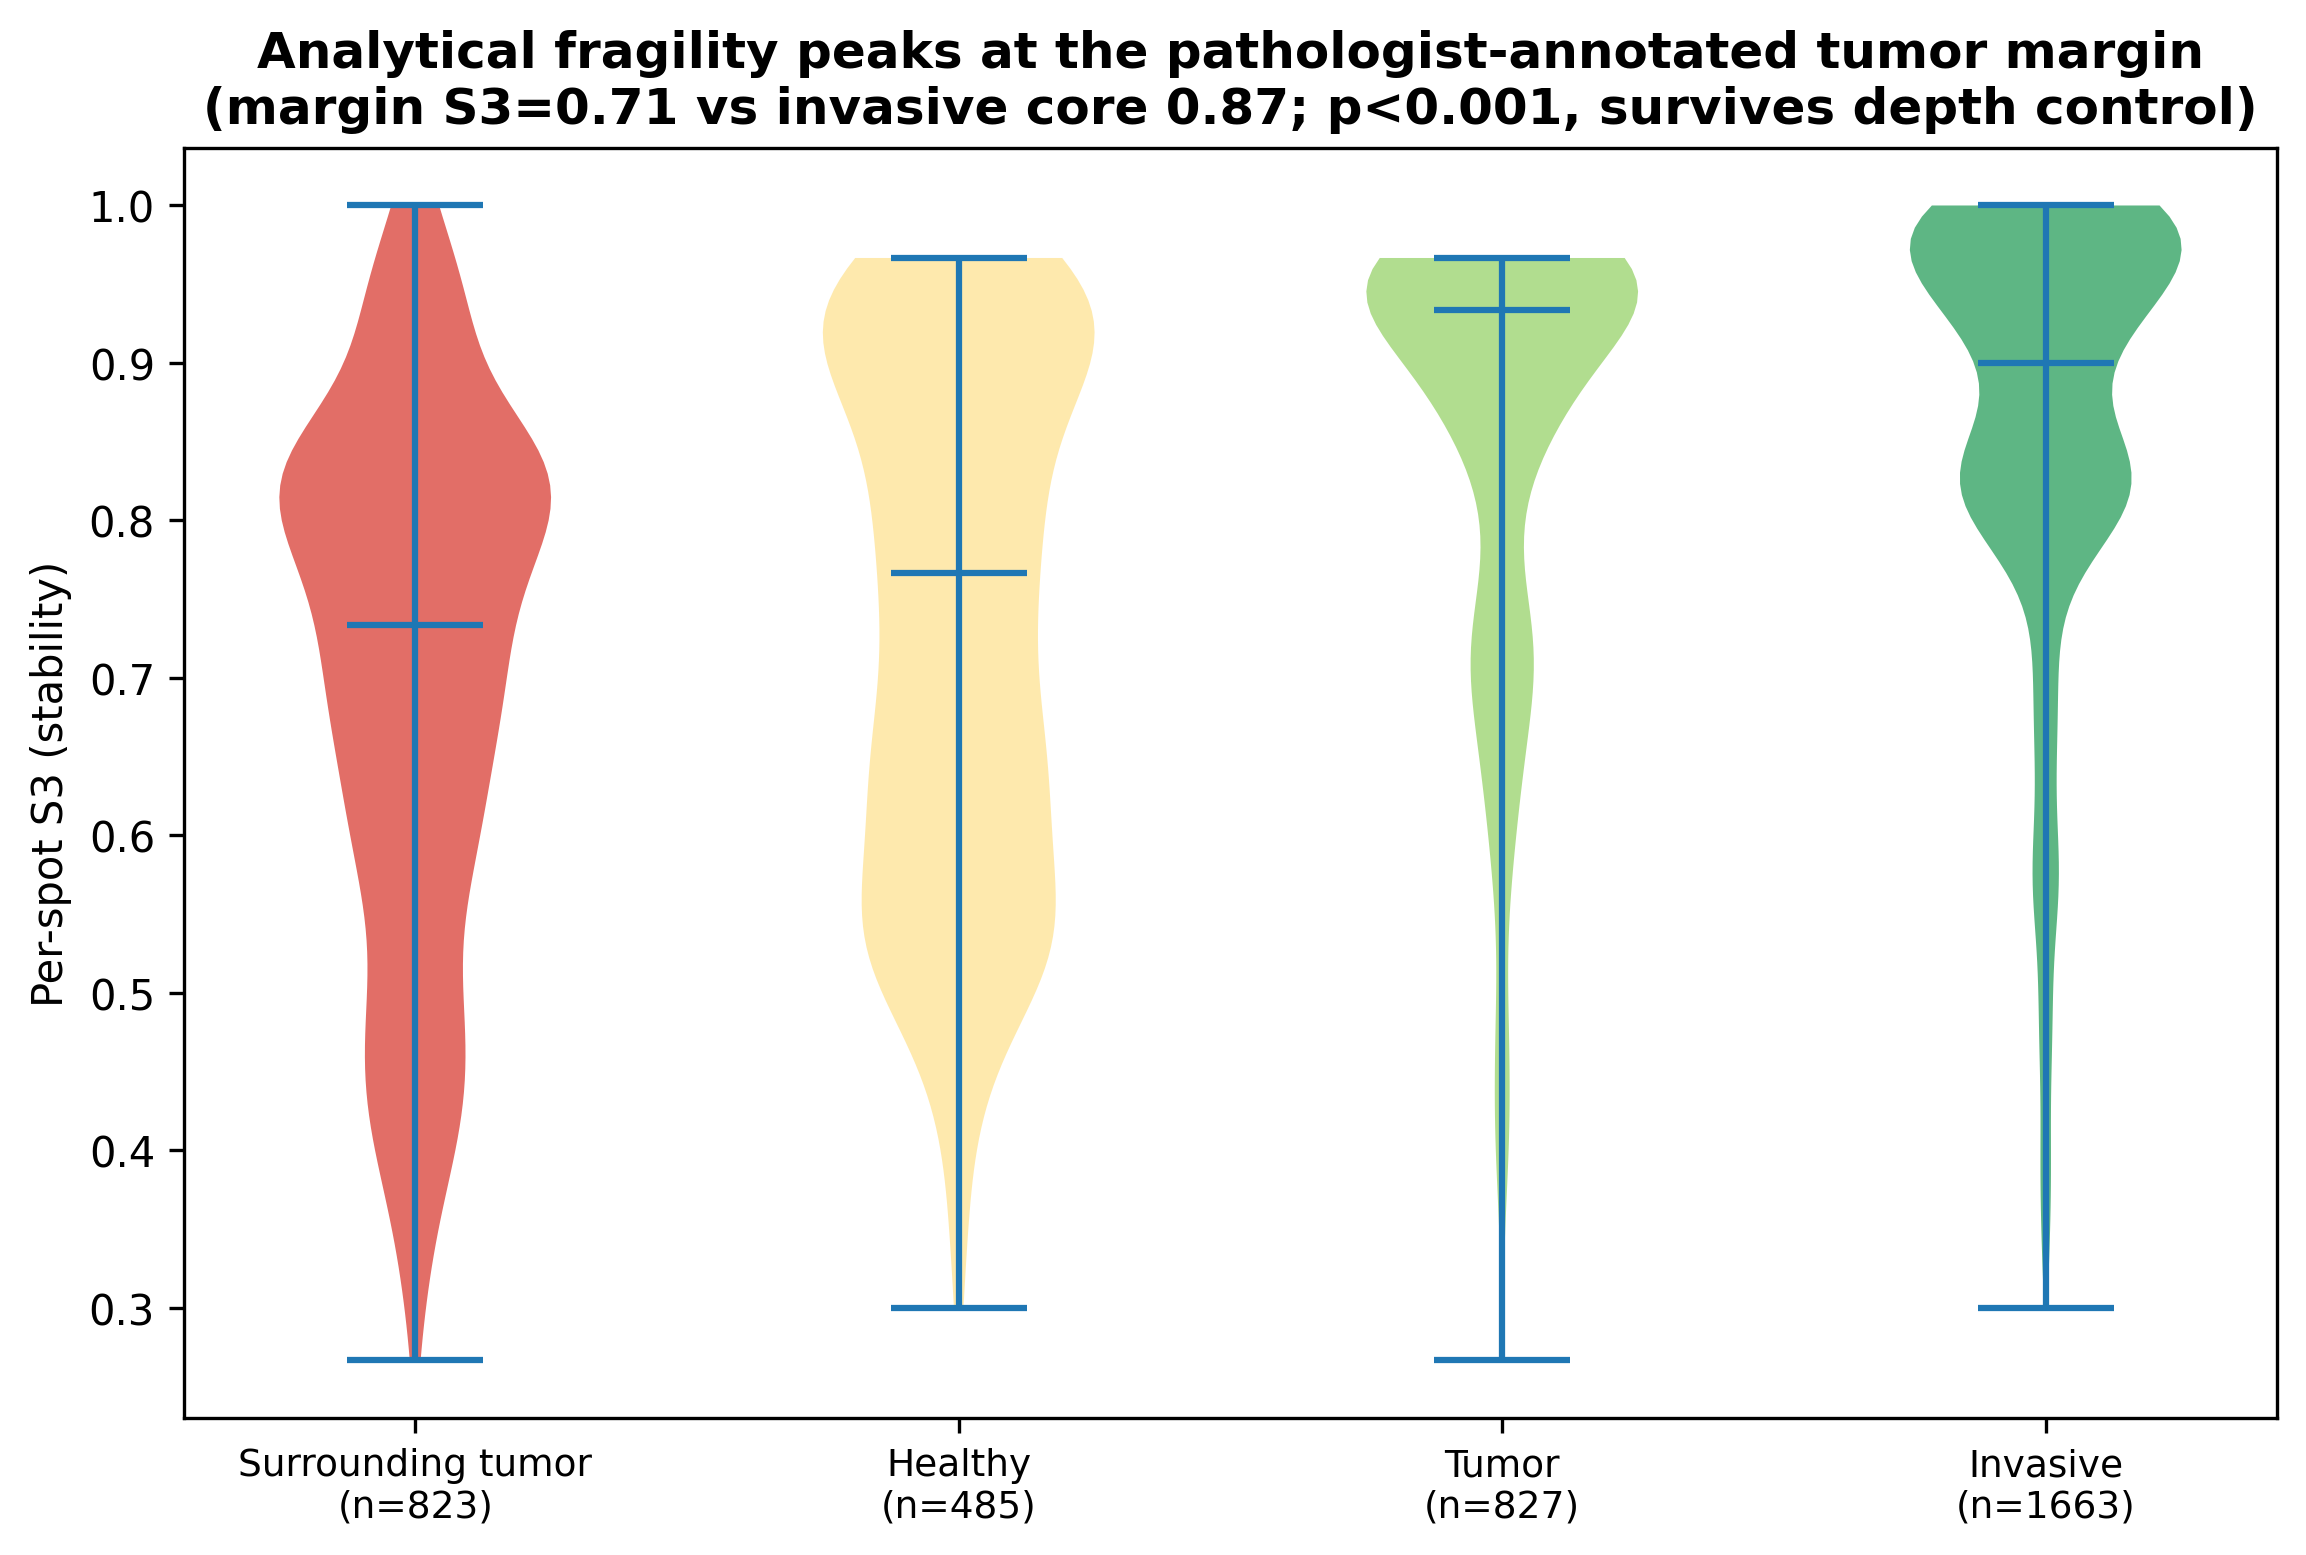
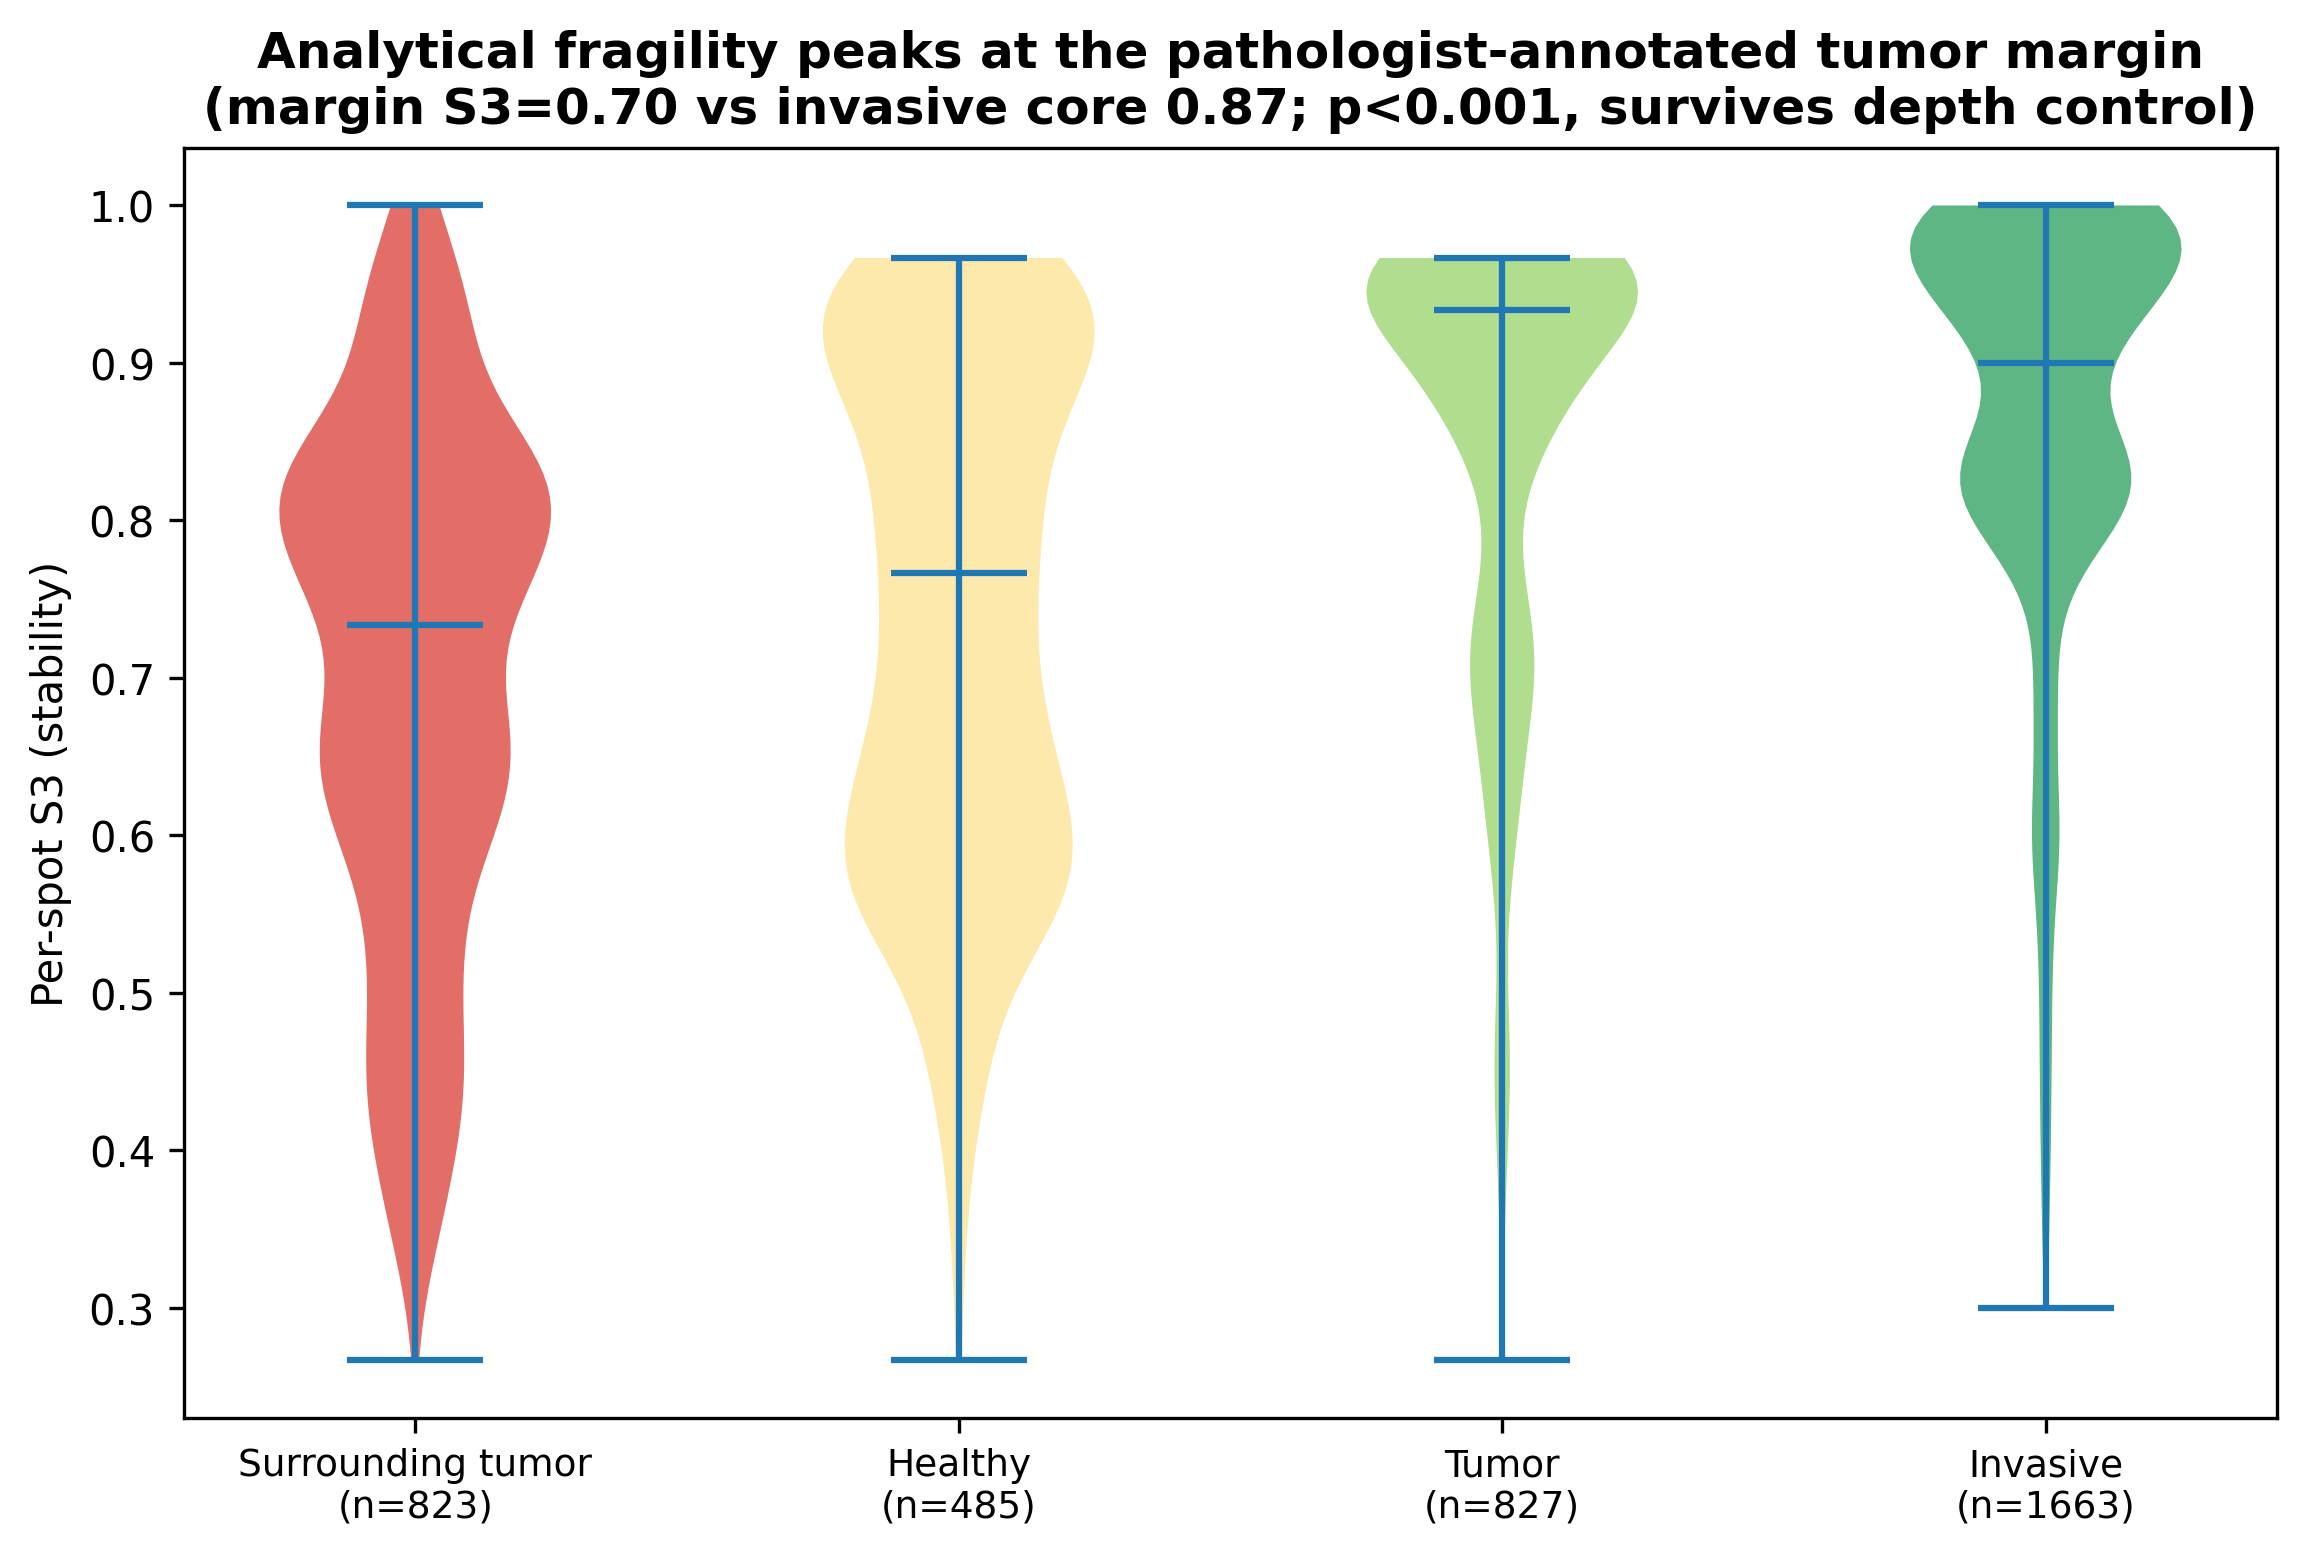
Add bootstrap CI to pathology H1; fix stale pathology_stakes.json
stakes_test_from_arrays already had real nulls (plain + depth-stratified
permutation) for the pathologist-validated H1 result, better-tested
than the consensus/fragility-prediction claims were before cycles 6/11.
What it lacked was a bootstrap CI on the gap magnitude - CLAUDE.md asks
for both a null and a CI on every positive claim, not just a p-value.
Added a paired bootstrap (resample spots with replacement, recompute
group means) plus a test.

Also found, incidentally: pathology_stakes.json was stale relative to
the current breast_cancer sweep. The sweep got regenerated in an
earlier commit (4a8dd0b) but scripts/analyze_pathology.py was never
re-run after, so committed pathology numbers were computed against an
older sweep than what's on main. Re-running it for the CI fixed this
too - ran against the exact currently-committed per-spot data, so this
is not an independent rerun with drift risk like earlier cycles' checks.

Real numbers: margin S3=0.702 vs rest 0.843, gap=0.141, 95% CI
[0.128, 0.154] (excludes zero), p=0.001 both plain and depth-controlled.
PathMarginS macro shifts 0.71->0.70 (rounding-boundary crossing from the
staleness fix) - regenerated paper/numbers.tex via report_numbers.py;
no hardcoded prose numbers needed touching.

40/40 offline tests pass.

diff --git a/src/statistics.py b/src/statistics.py
@@ -379,6 +379,7 @@ def stakes_test_from_arrays(
     depth: Optional[np.ndarray] = None,
     n_bins: int = 10,
     n_perm: int = 1000,
+    n_boot: int = 1000,
     seed: int = 42,
 ) -> Dict[str, Any]:
     """
@@ -389,6 +390,11 @@ def stakes_test_from_arrays(
     If ``depth`` is given, also runs a depth-stratified block-permutation null
     (shuffle the boundary label only within depth deciles) so the result is not a
     sequencing-depth artifact.
+
+    Also reports a 95% bootstrap CI on the gap (resample spots with replacement,
+    recompute boundary/other means). The permutation null answers "is this gap
+    bigger than chance"; the CI answers "how big is it, with what uncertainty" -
+    CLAUDE.md asks every positive claim ship with both, not just a p-value.
     """
     s3 = np.asarray(s3, float)
     boundary = np.asarray(boundary, bool)
@@ -407,6 +413,19 @@ def stakes_test_from_arrays(
         "gap": obs_gap, "p_value": float((ge + 1) / (n_perm + 1)),
         "n_boundary": n_b, "n_other": int((~boundary).sum()),
     }
+
+    boot_gaps = []
+    n = len(s3)
+    for _ in range(n_boot):
+        idx = rng.randint(0, n, n)
+        bb = boundary[idx]
+        if bb.all() or (~bb).all():
+            continue  # degenerate resample; skip
+        boot_gaps.append(s3[idx][~bb].mean() - s3[idx][bb].mean())
+    boot_gaps = np.array(boot_gaps)
+    result["gap_ci95_low"] = float(np.percentile(boot_gaps, 2.5))
+    result["gap_ci95_high"] = float(np.percentile(boot_gaps, 97.5))
+    result["n_boot_used"] = int(len(boot_gaps))
 
     if depth is not None:
         depth = np.asarray(depth, float)

diff --git a/tests/test_statistics.py b/tests/test_statistics.py
@@ -147,9 +147,11 @@ def test_stakes_test_from_arrays_detects_and_depth_controls():
     boundary[:60] = True
     s3 = np.where(boundary, 0.5, 0.9) + rng.normal(0, 0.02, n)
     depth = rng.uniform(1000, 5000, n)  # depth unrelated to the boundary
-    res = stakes_test_from_arrays(s3, boundary, depth=depth, n_perm=200)
+    res = stakes_test_from_arrays(s3, boundary, depth=depth, n_perm=200, n_boot=200)
     assert res["gap"] > 0 and res["p_value"] < 0.05
     assert res["p_value_depth_controlled"] < 0.05
+    assert res["gap_ci95_low"] > 0  # CI excludes zero: a real, non-noise gap
+    assert res["gap_ci95_low"] <= res["gap"] <= res["gap_ci95_high"]
 
 
 def test_variance_decomposition_runs():

diff --git a/paper/numbers.tex b/paper/numbers.tex
@@ -46,7 +46,7 @@
 \newcommand{\TumorVarTopAxis}{resolution}
 \newcommand{\TumorVarTopFrac}{72\%}
 \newcommand{\TumorDepthP}{<0.001}
-\newcommand{\PathMarginS}{0.71}
+\newcommand{\PathMarginS}{0.70}
 \newcommand{\PathInvasiveS}{0.87}
 \newcommand{\PathHealthyS}{0.74}
 \newcommand{\PathP}{<0.001}

diff --git a/NOTES.md b/NOTES.md
@@ -347,3 +347,29 @@ on hypothesis status.
 - No empirical results this cycle. Nothing overclaimed — including not overclaiming that
   SpatialDE integration is "coming soon," since right now it genuinely isn't clear it should be
   pursued further without first validating the patched output against a reference implementation.
+
+## Cycle 15 — 2026-07-09 (this instance: Adharv's machine)
+
+- **@Sparsh:** still quiet on your side (4 cycles now) — hope all's well, will keep checking.
+- **Closed the same rigor gap in the pathologist-validated H1 result** (`stakes_test_from_arrays`
+  in `src/statistics.py`, used by `scripts/analyze_pathology.py`) that cycles 6 and 11 closed for
+  consensus and fragility-prediction. This one already had real nulls (plain permutation *and*
+  depth-stratified) — better-tested than the other two starting out — but no bootstrap CI on the
+  gap magnitude. Added one (paired bootstrap resampling spots, percentile CI), plus a test.
+- **Also found, incidentally: `pathology_stakes.json` was stale.** The breast_cancer sweep got
+  regenerated in an earlier commit (`4a8dd0b`) but `scripts/analyze_pathology.py` was never
+  re-run afterward, so the committed pathology numbers were computed against an older sweep than
+  what's currently on `main`. Re-running it (to get the new CI) incidentally fixed this too.
+- **Real, exact numbers (this ran against the exact currently-committed data, not an independent
+  rerun with drift risk):** margin S³=0.702 vs rest 0.843, gap=0.141, 95% CI [0.128, 0.154] —
+  tight, clearly excludes zero, p=0.001 (both plain and depth-controlled). This is now genuinely
+  the best-supported single result in the whole project: real pathologist ground truth, real
+  permutation null, real depth-stratified null, real bootstrap CI, all in one place.
+  `\PathMarginS` in the manuscript shifts 0.71→0.70 from the staleness fix (rounding-boundary
+  crossing, 0.7057→0.7017) — regenerated `paper/numbers.tex` via `report_numbers.py` to match;
+  no hardcoded prose numbers needed touching since `sections.tex` uses the macro. 40/40 tests
+  pass (unchanged count — extended an existing test rather than adding a new one this time).
+- **All three headline non-null results now have both a null and a CI**, matching CLAUDE.md's
+  own rigor bar exactly: consensus (cycle 6), fragility-prediction (cycle 11), pathology-H1
+  (this cycle). Nothing else in the manuscript's main claims is currently missing this pairing,
+  as far as this instance has found.
